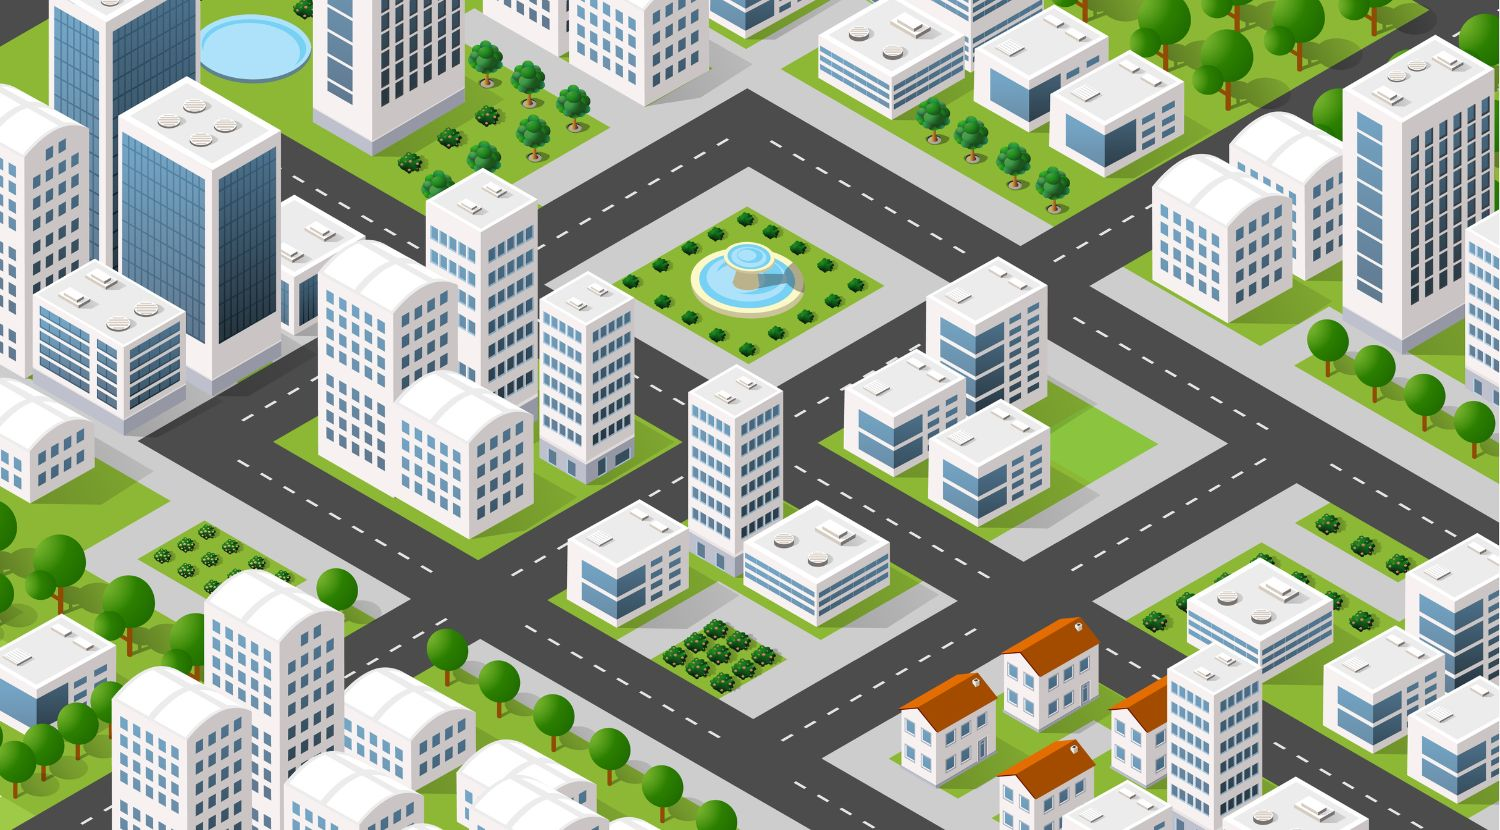
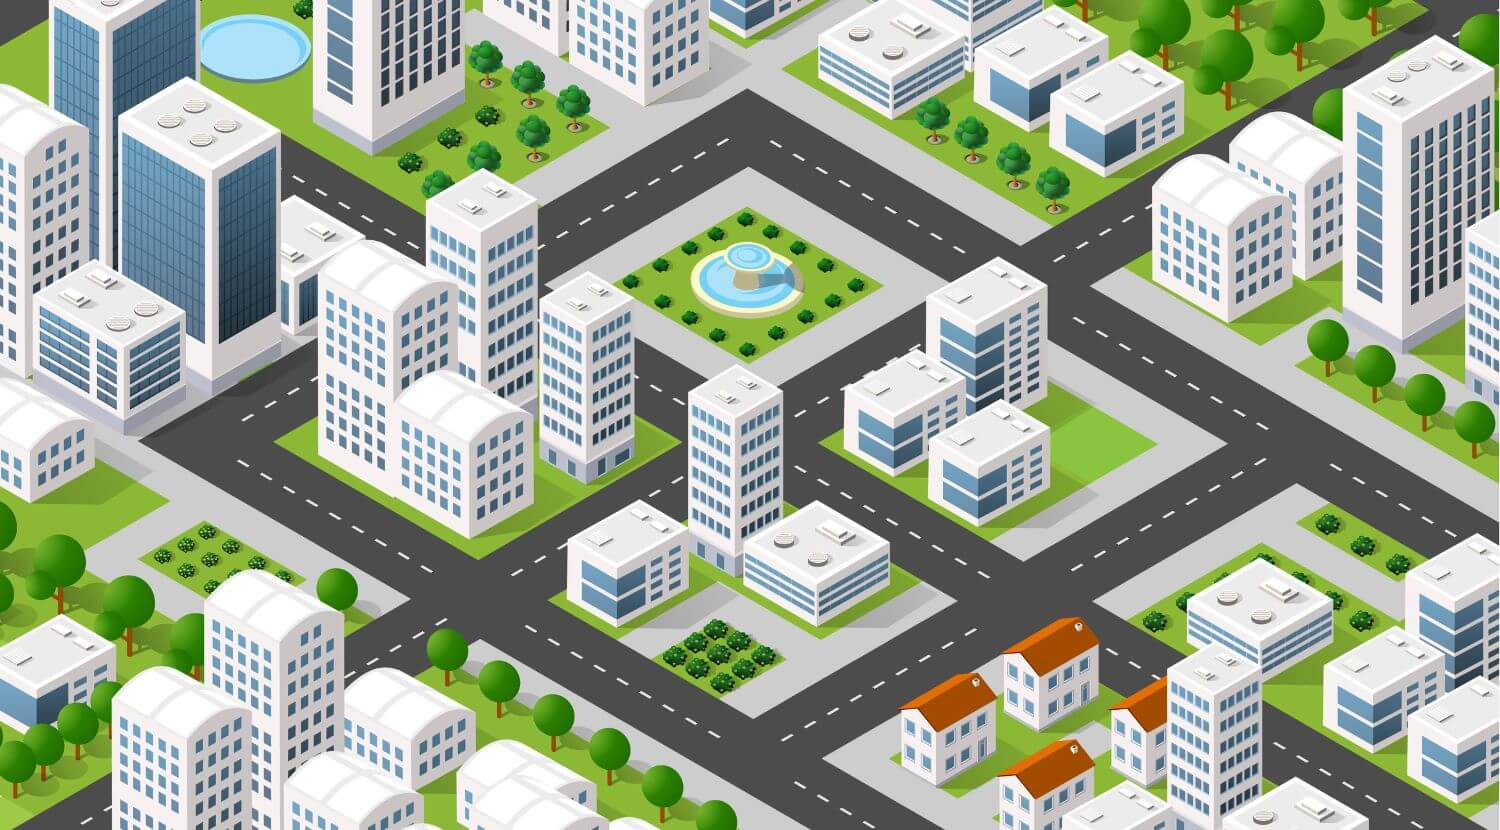
replaced h2 with p and minified images

diff --git a/index.html b/index.html
@@ -9,63 +9,63 @@
   <title>CSS Animated Background Examples</title>
 </head>
 <body>
-  <h1>Animated background examples</h1>
+  <h1 style="text-align: center; margin-bottom: 90px; color: #B70000">Animated background examples</h1>
   <!-- example 1 -->
   <div class="example example-1">
-    <h2>Example 1: The cow eats grass 🌲</h2>
+    <p>Example 1: The cow eats grass 🌲</p>
   </div>
   <!-- example 2 -->
   <div class="example example-2">
-    <h2>Example 2: It has four legs 🐂</h2>
+    <p>Example 2: It has four legs 🐂</p>
   </div>
   <!-- example 3 -->
   <div class="example example-3">
-    <h2>Example 3: I had never seen an alien 👽</h2>
+    <p>Example 3: I had never seen an alien 👽</p>
   </div>
   <!-- example 4 -->
   <div class="example example-4">
-    <h2>Example 4: Hi mom! I took money from your vanity bag 😿</h2>
+    <p>Example 4: Hi mom! I took money from your vanity bag 😿</p>
   </div>
   <!-- example 5 -->
   <div class="example example-5">
-    <h2>Example 5: That's not quite right 😈</h2>
+    <p>Example 5: That's not quite right 😈</p>
   </div>
   <!-- example 6 -->
   <div class="example example-6">
-    <h2>Example 6: Five little monkeys are jumping on the bed 🙉</h2>
+    <p>Example 6: Five little monkeys are jumping on the bed 🙉</p>
   </div>
   <!-- example 7 -->
   <div class="example example-7">
-    <h2>Example 7: Hi dad! I won't go to school today 🐢</h2>
+    <p>Example 7: Hi dad! I won't go to school today 🐢</p>
   </div>
   <!-- example 8 -->
   <div class="example example-8">
-    <h2>Example 8: Hi sis! I need your old books 📗</h2>
+    <p>Example 8: Hi sis! I need your old books 📗</p>
   </div>
   <!-- example 9 -->
   <div class="example example-9">
-    <h2>Example 9: Every deep night I take a bath 🛀</h2>
+    <p>Example 9: Every deep night I take a bath 🛀</p>
   </div>
   <!-- example 10 -->
   <div class="example example-10">
-    <h2>Example 10: My heart broke when my little cat died 🐱</h2>
+    <p>Example 10: My heart broke when my little cat died 🐱</p>
   </div>
   <!-- example 11 -->
   <div class="example example-11">
-    <h2>Example 11: I never eat turtles 🐢</h2>
+    <p>Example 11: I never eat turtles 🐢</p>
   </div>
   <!-- example 12 -->
   <div class="example example-12">
     <div class="animated-rectangle"></div>
-    <h2>Example 12: I have eggplant in my rooftop garden 🍆</h2>
+    <p>Example 12: I have eggplant in my rooftop garden 🍆</p>
   </div>
   <!-- example 13 -->
   <div class="example example-13">
-    <h2>Example 13: I lost many umbrellas in my life 🌂</h2>
+    <p>Example 13: I lost many umbrellas in my life 🌂</p>
   </div>
   <!-- example 14 -->
   <div class="example example-14">
-    <h2>Example 14: That's all 🚀</h2>
+    <p>Example 14: That's all 🚀</p>
   </div>
   
   

diff --git a/style.scss b/style.scss
@@ -10,9 +10,11 @@ body {
 .example {
   display: grid;
   margin-bottom: 90px;
-  h2 {
+  p {
     margin: auto;
     text-align: center;
+    font-weight: 700;
+    line-height: 1.2;
     font-size: 2em;
     @media(min-width: 768px) {
       font-size: 3em;
@@ -96,7 +98,7 @@ body {
   background-size: 400% 400%;
   animation: gradient-example-4 10s ease infinite;
 
-  h2 {
+  p {
     color: #fff;
     text-shadow: 2px 2px 4px #000000;
     animation: glow-example-4 2s ease-in-out infinite alternate;
@@ -130,7 +132,7 @@ body {
   animation: gradient-example-5 10s ease infinite;
   position: relative;
 
-  h2 {
+  p {
     color: #fff;
     text-shadow: 2px 2px 4px #000000;
     animation: dropshadow-example-5 5s ease infinite alternate;
@@ -169,7 +171,7 @@ body {
   position: relative;
   margin: 90px auto;
 
-  h2 {
+  p {
     color: #fff;
     text-shadow: 2px 2px 4px #000000;
   }
@@ -202,7 +204,7 @@ body {
     background-image: url("./img/bg-hero.png");
   }
 
-  h2 {
+  p {
     color: #fff;
     text-shadow: 2px 2px 4px #000;
   }
@@ -231,7 +233,7 @@ body {
   animation: background-anim-example-8 10s linear infinite;
   position: relative;
 
-  h2 {
+  p {
     color: #fff;
     text-shadow: 2px 2px 4px #000;
   }
@@ -263,7 +265,7 @@ body {
   background-size: 400% 400%;
   animation: background-anim-example-9 1s ease-in-out infinite;
 
-  h2 {
+  p {
     color: #fff;
     text-shadow: 2px 2px 4px #000;
   }
@@ -288,7 +290,7 @@ body {
   background-size: cover;
   animation: background-anim-example-10 20s linear infinite;
 
-  h2 {
+  p {
     color: #fff;
     text-shadow: 2px 2px 4px #000;
   }
@@ -315,7 +317,7 @@ body {
   background-repeat: no-repeat;
   animation: background-anim-example-11 20s ease-in-out infinite;
 
-  h2 {
+  p {
     color: #fff;
     text-shadow: 2px 2px 4px #000;
   }
@@ -359,7 +361,7 @@ body {
     animation: rectangle-anim-example-12 5s linear infinite;
   }
 
-  h2 {
+  p {
     color: #fff;
     text-shadow: 2px 2px 4px #000;
     z-index: 1;
@@ -387,7 +389,7 @@ body {
   background-color: #4285F4;
   animation: background-animation-example-13 5s ease-in-out infinite;
 
-  h2 {
+  p {
     color: white;
   }
   @keyframes background-animation-example-13 {
@@ -408,7 +410,7 @@ body {
   background-color: #4285F4;
   animation: background-animation-example-14 10s ease-in-out infinite;
 
-  h2 {
+  p {
     color: white;
     text-shadow: 1px 1px 2px #000000;
   }

diff --git a/style.css b/style.css
@@ -16,14 +16,16 @@ body {
   margin-bottom: 90px;
 }
 
-.example h2 {
+.example p {
   margin: auto;
   text-align: center;
+  font-weight: 700;
+  line-height: 1.2;
   font-size: 2em;
 }
 
 @media (min-width: 768px) {
-  .example h2 {
+  .example p {
     font-size: 3em;
   }
 }
@@ -149,7 +151,7 @@ body {
           animation: gradient-example-4 10s ease infinite;
 }
 
-.example-4 h2 {
+.example-4 p {
   color: #fff;
   text-shadow: 2px 2px 4px #000000;
   -webkit-animation: glow-example-4 2s ease-in-out infinite alternate;
@@ -209,7 +211,7 @@ body {
   position: relative;
 }
 
-.example-5 h2 {
+.example-5 p {
   color: #fff;
   text-shadow: 2px 2px 4px #000000;
   -webkit-animation: dropshadow-example-5 5s ease infinite alternate;
@@ -274,7 +276,7 @@ body {
   margin: 90px auto;
 }
 
-.example-6 h2 {
+.example-6 p {
   color: #fff;
   text-shadow: 2px 2px 4px #000000;
 }
@@ -333,7 +335,7 @@ body {
   }
 }
 
-.example-7 h2 {
+.example-7 p {
   color: #fff;
   text-shadow: 2px 2px 4px #000;
 }
@@ -385,7 +387,7 @@ body {
   position: relative;
 }
 
-.example-8 h2 {
+.example-8 p {
   color: #fff;
   text-shadow: 2px 2px 4px #000;
 }
@@ -436,7 +438,7 @@ body {
           animation: background-anim-example-9 1s ease-in-out infinite;
 }
 
-.example-9 h2 {
+.example-9 p {
   color: #fff;
   text-shadow: 2px 2px 4px #000;
 }
@@ -475,7 +477,7 @@ body {
           animation: background-anim-example-10 20s linear infinite;
 }
 
-.example-10 h2 {
+.example-10 p {
   color: #fff;
   text-shadow: 2px 2px 4px #000;
 }
@@ -515,7 +517,7 @@ body {
           animation: background-anim-example-11 20s ease-in-out infinite;
 }
 
-.example-11 h2 {
+.example-11 p {
   color: #fff;
   text-shadow: 2px 2px 4px #000;
 }
@@ -577,7 +579,7 @@ body {
           animation: rectangle-anim-example-12 5s linear infinite;
 }
 
-.example-12 h2 {
+.example-12 p {
   color: #fff;
   text-shadow: 2px 2px 4px #000;
   z-index: 1;
@@ -634,7 +636,7 @@ body {
           animation: background-animation-example-13 5s ease-in-out infinite;
 }
 
-.example-13 h2 {
+.example-13 p {
   color: white;
 }
 
@@ -669,7 +671,7 @@ body {
           animation: background-animation-example-14 10s ease-in-out infinite;
 }
 
-.example-14 h2 {
+.example-14 p {
   color: white;
   text-shadow: 1px 1px 2px #000000;
 }
